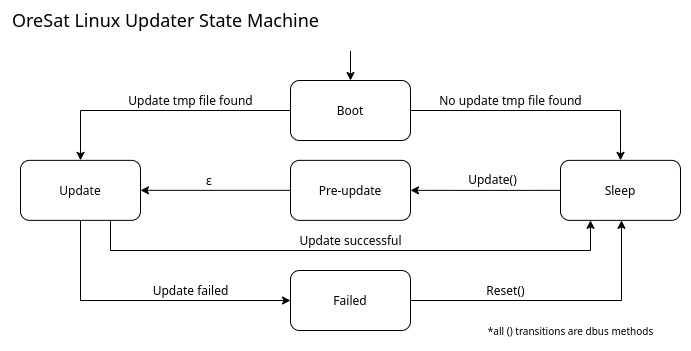
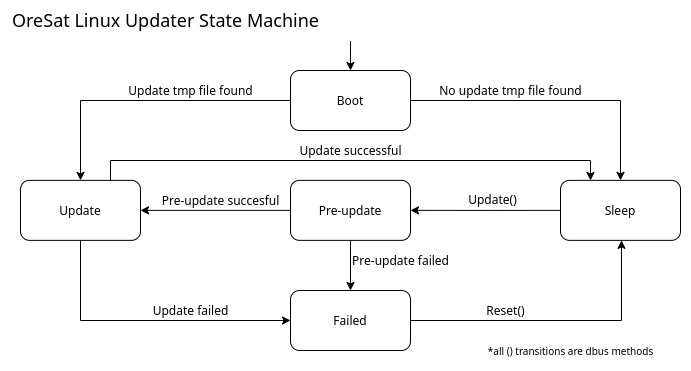
add more sphinx docs

diff --git a/src/linux_updater.py b/src/linux_updater.py
@@ -109,12 +109,54 @@ class LinuxUpdater():
         bool
             True if the update worked or False on failure.
         """
-        instructions_file = self._working_dir + "instructions.txt"
 
-        # get archive file
+        # move archive file into working dir
         archive_filepath = self._file_cache.get(self._working_dir)
         if not archive_file:
             return True # no file
+
+        return self._update(archive_filepath)
+
+
+    def update_now(self, archive_filepath):
+        # type: (str) -> bool
+        """
+        Load oldest update file if one exist and runs the update.
+
+        Returns
+        -------
+        bool
+            True if the update worked or False on failure.
+
+        Raise
+        -----
+        ValueError
+            dir_path was empty or not a absolute path.
+        """
+
+        # make sure input was valid
+        if not archive_filepath:
+            raise ValueError("Input was empty.")
+        if(archive_filepath[0] != '/'):
+            raise ValueError("Input was not an absolute path.")
+
+        # move archive file into working dir
+        ret = shutil.copyfile(file_path, self._working_dir)
+
+        return self._update(archive_filepath)
+
+
+    def _update(self, archive_filepath):
+        # type: (str) -> bool
+        """
+        Runs the update. Archive file should be in working directory.
+
+        Returns
+        -------
+        bool
+            True if the update worked or False on failure.
+        """
+        instructions_file = self._working_dir + "instructions.txt"
 
         # open the archive file
         t = tarfile.open(archive_filepath, "r:gz")

diff --git a/src/dbus_adapter.py b/src/dbus_adapter.py
@@ -95,7 +95,7 @@ class DbusAdapter(object):
         return self._updater.add_archive_file(file_path)
 
 
-    def StartUpdate(self):
+    def Update(self):
         # () -> bool
         """
         Load the oldest archive file in cache and runs update.
@@ -105,7 +105,25 @@ class DbusAdapter(object):
         bool
             True if updated worked or False on failure.
         """
-        return self._updater.change_state("update")
+        return self._updater.update()
+
+
+    def UpdateNow(self, file_path):
+        # (str) -> bool
+        """
+        Immedantly tries to to update with archive file, bypasses cache.
+
+        Parameters
+        ----------
+        file_path : str
+            Absolute path to archive file to add to cache.
+
+        Returns
+        -------
+        bool
+            True if updated worked or False on failure.
+        """
+        return self._updater.update_now(file_path)
 
 
     def GetPackageListFile(self):
@@ -118,7 +136,7 @@ class DbusAdapter(object):
         str
             Absolute filepath to file with the list of installed packages.
         """
-        return self._updater.get_pkg_installed_file()
+        return self._updater.get_pkg_list_file()
 
 
     # -------------------------------------------------------------------------

diff --git a/src/file_cache.py b/src/file_cache.py
@@ -50,7 +50,7 @@ class FileCache():
         """
 
         # make sure input was valid
-        if not dir_path:
+        if not file_path:
             raise ValueError("Input was empty.")
         if(file_path[0] != '/'):
             raise ValueError("Input was not an absolute path.")

diff --git a/docs/archive_file.rst b/docs/archive_file.rst
@@ -1,0 +1,41 @@
+Archive File
+============
+Archive files name should be in the formate of
+board_name-update-YYYY-MM-dd-hh-mm-ss.tar.gz. Example:
+star_tracker-update-2020-02-10-14-30-23.tar.gz aka a start tracker update
+archive file made on Feburary 10th 2020 at 14:30:23 UTC.
+
+Archive file contents
+---------------------
+Tar gz archive file with deb package, bash scripts, and an instructions.txt
+file. All archive file must have instructions.txt.
+
+Example archive file contents: ::
+
+    instructions.txt
+    package1.deb
+    package2.deb
+    package3.deb
+    bash_script1.sh
+    bash_script2.sh
+    bash_script3.sh
+
+
+instructions.txt format
+-----------------------
+instruction.txt contatins a JSON string with with a list of instructions and
+instruction_types. Where instruction_types can be install_pkg, remove_pkg, or
+bash_script. The instructions will be run in order.
+
+Example instructions.txt contents: ::
+
+    [
+        ["package1.deb", "install_pkg"],
+        ["bash_script1.sh","bash_script"],
+        ["package2.deb", "install_pkg"],
+        ["package3.deb", "install_pkg"],
+        ["bash_script2.sh","bash_script"],
+        ["package4", "remove_pkg"],
+        ["bash_script3.sh","bash_script"]
+    ]
+

diff --git a/docs/index.rst b/docs/index.rst
@@ -2,9 +2,17 @@ Welcome to OreSat Linux Updater's documentation!
 ================================================
 
 
+oresat-linux-updaterd
+---------------------
+A common daemon on all Linux boards that allows board to updated over DBus.
+Archive files with deb packages and bash scripts can be sent to the daemon
+to update the board over DBus.
+
 .. toctree::
     :maxdepth: 2
 
+    archive_file
+    how_it_works
     internal/index
 
 
@@ -13,5 +21,4 @@ Indices and tables
 ==================
 
 * :ref:`genindex`
-* :ref:`modindex`
 * :ref:`search`

diff --git a/docs/how_it_works.rst b/docs/how_it_works.rst
@@ -1,0 +1,21 @@
+How the OreSat Linux Updater works
+==================================
+
+
+Archive files with deb packages and bash scripts can be sent to the daemon
+to update the board over DBus.
+
+
+State machine
+---------------------
+
+.. image:: images/UpdaterStateMachine.png
+
+States:
+    - *Boot* - Setting up file cache.
+    - *Sleep* - Waiting for commands.
+    - *Pre-update* - Getting and opening the oldest archive file from cache.
+    - *Update* - Running the instruction from the opened archive.
+    - *Failed* - Updated failed.
+
+
